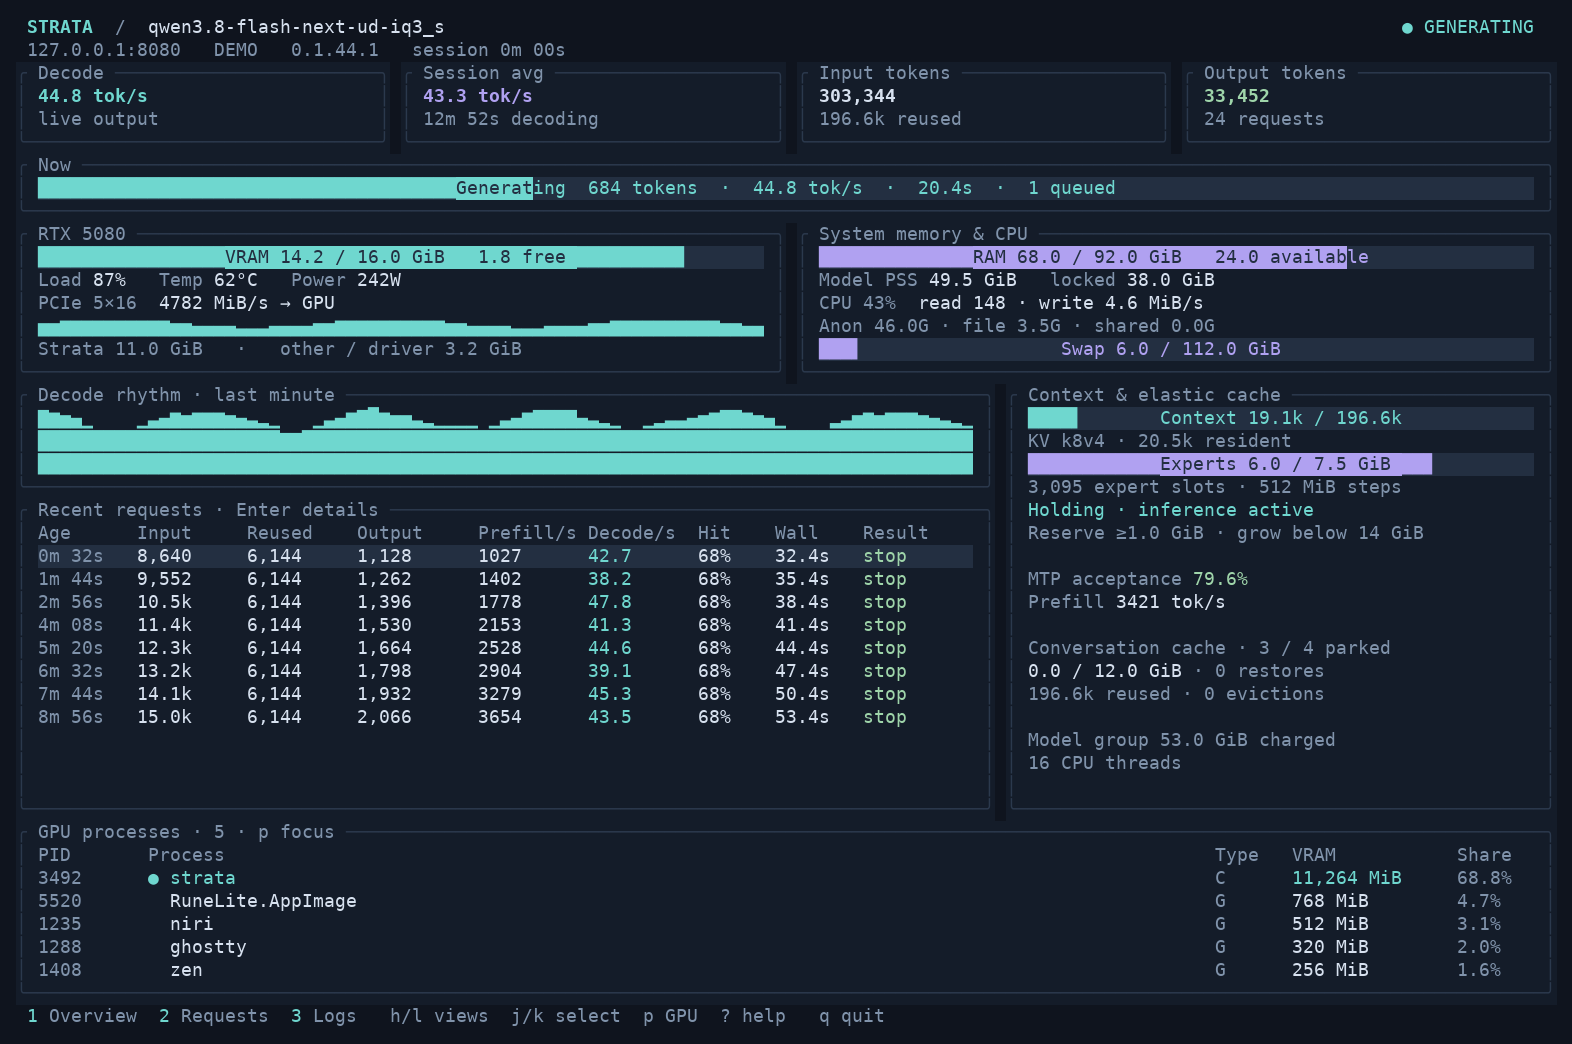
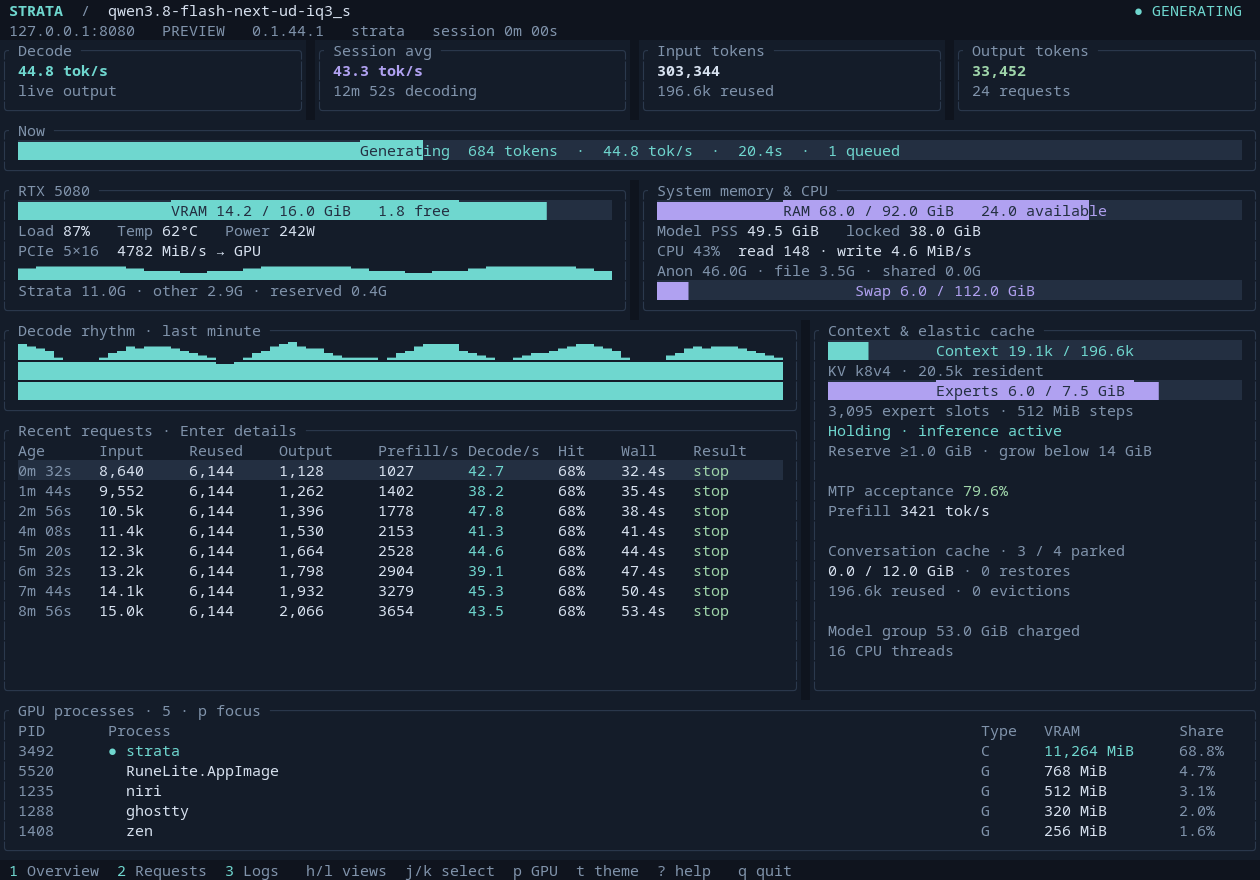
refresh readme screenshots and compact theme gallery

diff --git a/README.md b/README.md
@@ -2,7 +2,7 @@
 
 A Rust / Ratatui dashboard for Strata, with model supervision and automatic VRAM management.
 
-![Overview](docs/overview.png)
+<img src="docs/overview.png" alt="Strata dashboard with the default theme, showing inference speed, memory, request history, and GPU processes" width="1000">
 
 Install from crates.io:
 
@@ -79,6 +79,8 @@ on the dashboard. Move with `hjkl`, arrow keys, or Tab. Enter saves the selectio
 for future launches; Esc restores the previous palette. This also works while
 the model is generating.
 
+<img src="docs/themes.png" alt="Six theme previews: Ember, Monochrome, Ayu Dark, Rosé Pine, Everforest, and Solarized Light" width="1000">
+
 | Theme | Appearance |
 | --- | --- |
 | `strata` | Midnight blue with sea glass and lavender |
@@ -92,8 +94,6 @@ the model is generating.
 | `ayu-dark` | Ink black with amber and sky blue |
 | `rose-pine` | Dusk violet with rose and iris |
 | `everforest` | Forest charcoal with sage and sea green |
-
-![Theme gallery](docs/themes.png)
 
 ```sh
 strata-wrap iq3_s --theme ember         # Override the saved theme for this launch
